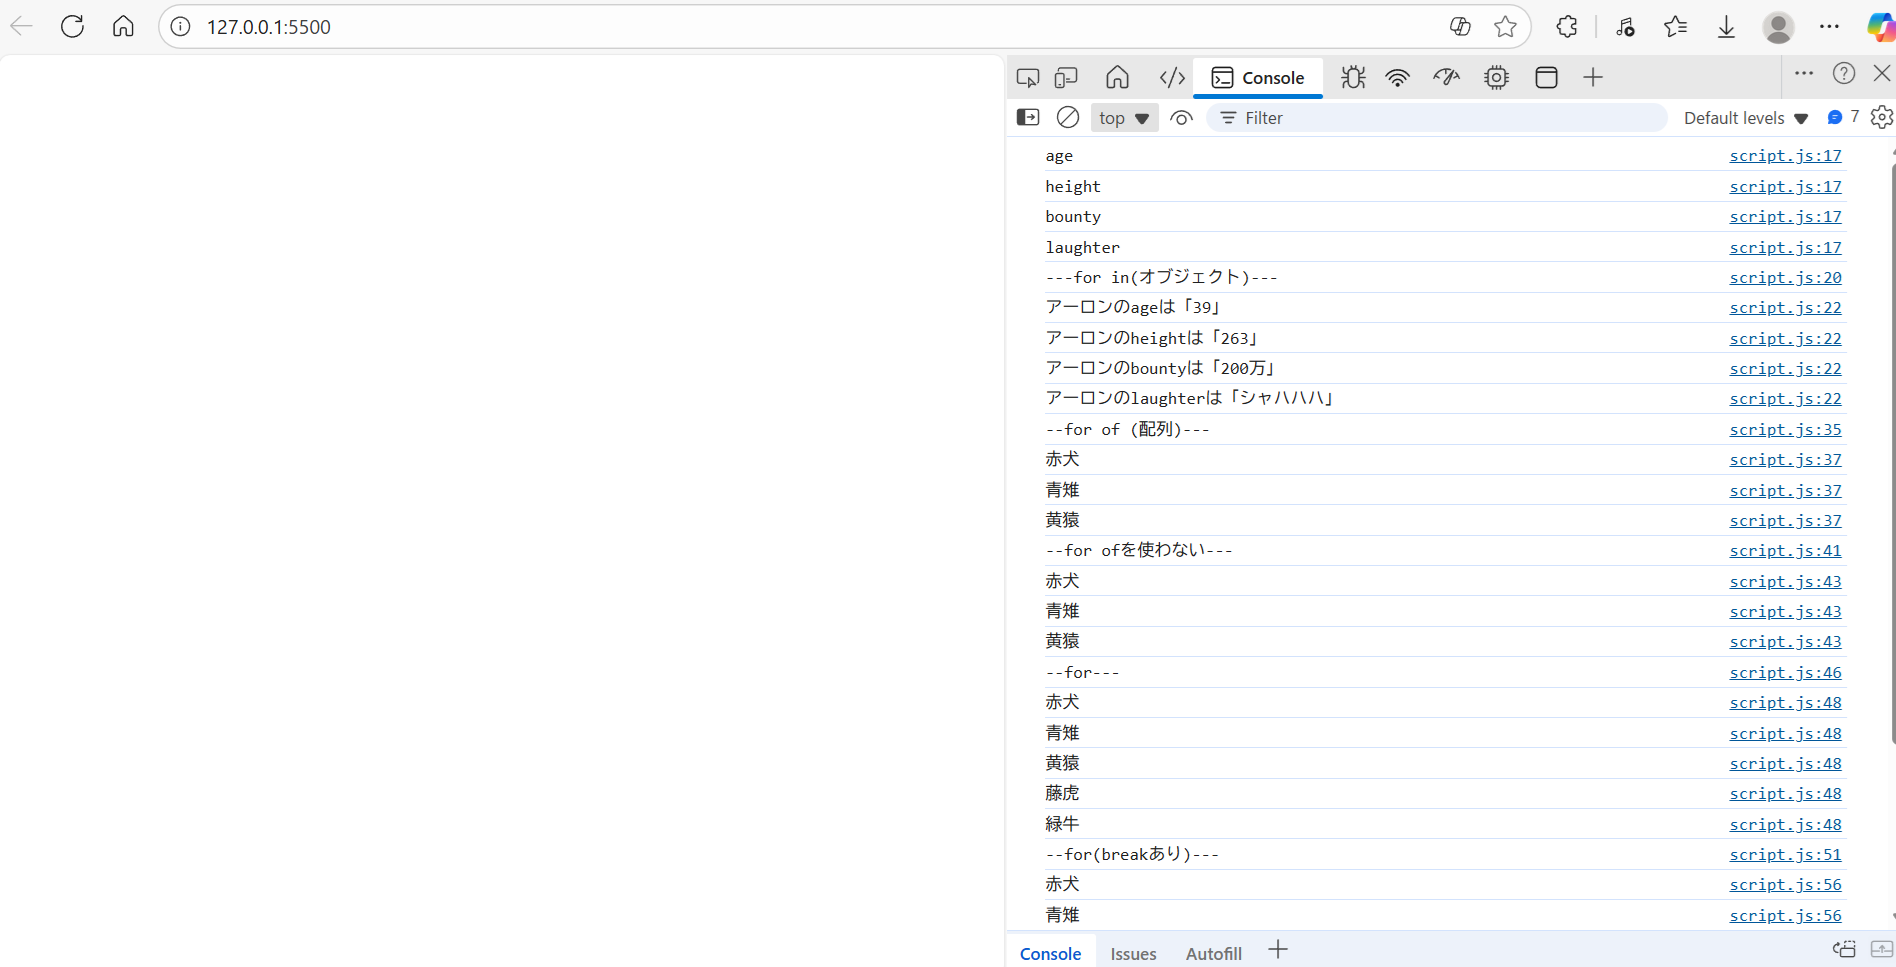
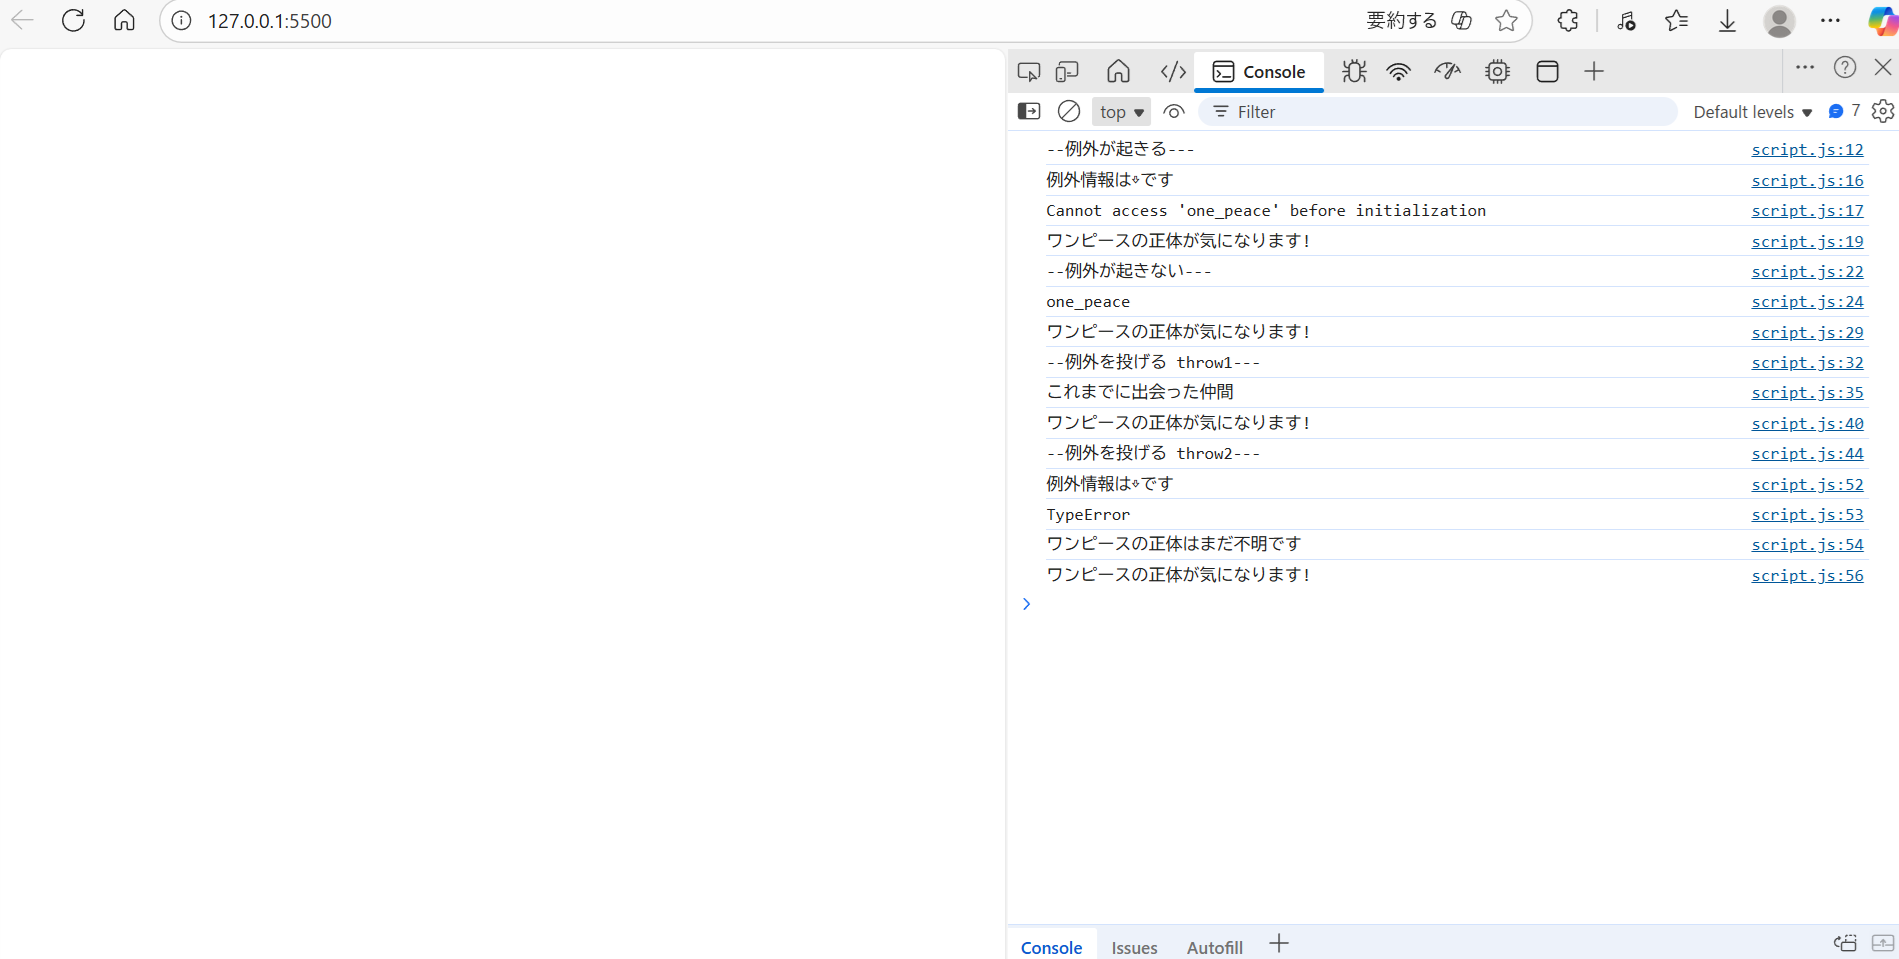
javascript エンジニアの休日14：2025/11/17
JavaScript  例外処理(プログラミング入門講座)

Changed region(s): [[0.529, 0.0, 1.0, 0.9979], [0.0311, 0.0, 0.1867, 0.0605], [0.5601, 0.877, 0.6224, 0.9072]]

diff --git a/script.js b/script.js
@@ -1,66 +1,57 @@
-// for..in / for..of / for
-// for..in オブジェクトのプロパティ(キー)を順に取り出す
+// 例外処理 try..catch..finally
 /*
-  for ( prop(仮変数) in object(オブジェクト)) {
-    処理
-    オブジェクトからキーを取り出し、順番に仮変数に入る
-  }
-*/
-let Arlong = {    //アーロン
-    age: 39,
-    height: 263,
-    bounty: "200万",
-    laughter: "シャハハハ"
-};
-//propにキーが順番に入る、iでも良い
-for ( prop in Arlong) {
-  console.log(prop);
-}
-//キーと値を表示
-console.log("---for in(オブジェクト)---");
-for ( i in Arlong) {
-  console.log(`アーロンの${i}は「${Arlong[i]}」`);
-}
-
-//for..of 配列などの内容を取り出したい時に利用
-/*
-  for ( element(仮変数) of array(配列)) {
-    処理
-    配列から要素を取り出し、順番に変数に入る
+  try {
+    例外(エラー)が起きそうな処理  
+  } catch(exception) {
+    例外(エラー)が起きた時の処理
+  } finally {
+    例外(エラー)の有無に関係なく、実行
   }
 */
 
-//海軍大将
-let admiral_members = ["赤犬", "青雉", "黄猿"];
-console.log("--for of (配列)---");
-for ( value of admiral_members) {
-  console.log(value);
-}
+console.log("--例外が起きる---");
+  try {
+    console.log(one_peace);
+  } catch(exception) {
+    console.log("例外情報は⇩です");
+    console.log(exception.message);
+  } finally {
+    console.log("ワンピースの正体が気になります!");
+  }
+//例外が起きない例
+console.log("--例外が起きない---");
+  try {
+    console.log("one_peace");
+  } catch(ex) {
+    console.log("例外情報は⇩です");
+    console.log(ex.message);
+  } finally {
+    console.log("ワンピースの正体が気になります!");
+  }
+//例外を投げる(例外を発生させる) throw1
+console.log("--例外を投げる throw1---");
+let one_peace = "これまでに出会った仲間";
+  try {
+    console.log(one_peace);
+  } catch(ex) {
+    console.log("例外情報は⇩です");
+    console.log(ex.message);
+  } finally {
+    console.log("ワンピースの正体が気になります!");
+  }
 
-admiral_members = ["赤犬", "青雉", "黄猿"];
-console.log("--for ofを使わない---");
-for ( i = 0; i < 3; i++ ) {
-  console.log(admiral_members[i]);
-}
-admiral_members = ["赤犬", "青雉", "黄猿", "藤虎", "緑牛"];
-console.log("--for---");
-for ( i = 0; i < 5; i++ ) {
-  console.log(admiral_members[i]);
-}
-//ループから抜け出したいとき
-console.log("--for(breakあり)---");
-for ( i = 0; i < 5; i++ ) {
-  if (admiral_members[i] == "藤虎") {
-    break;   //ループ終了
+//例外を投げる(例外を発生させる) throw2
+console.log("--例外を投げる throw2---");
+one_peace = "これまでに出会った仲間";
+  try {
+    if (one_peace !== "") {
+      throw new TypeError("ワンピースの正体はまだ不明です");
+    }
+    console.log(one_peace);
+  } catch(ex) {
+    console.log("例外情報は⇩です");
+    console.log(ex.name);      //エラー名
+    console.log(ex.message);   //エラーメッセージ
+  } finally {
+    console.log("ワンピースの正体が気になります!");
   }
-  console.log(admiral_members[i]);
-}
-//特定のループをスキップしたいとき
-console.log("--for(continueあり)---");
-for ( i = 0; i < 5; i++ ) {
-  if (admiral_members[i] == "赤犬" ||
-      admiral_members[i] == "青雉") {
-    continue;   //現在のループのみスキップ
-  }
-  console.log(admiral_members[i]);
-}
